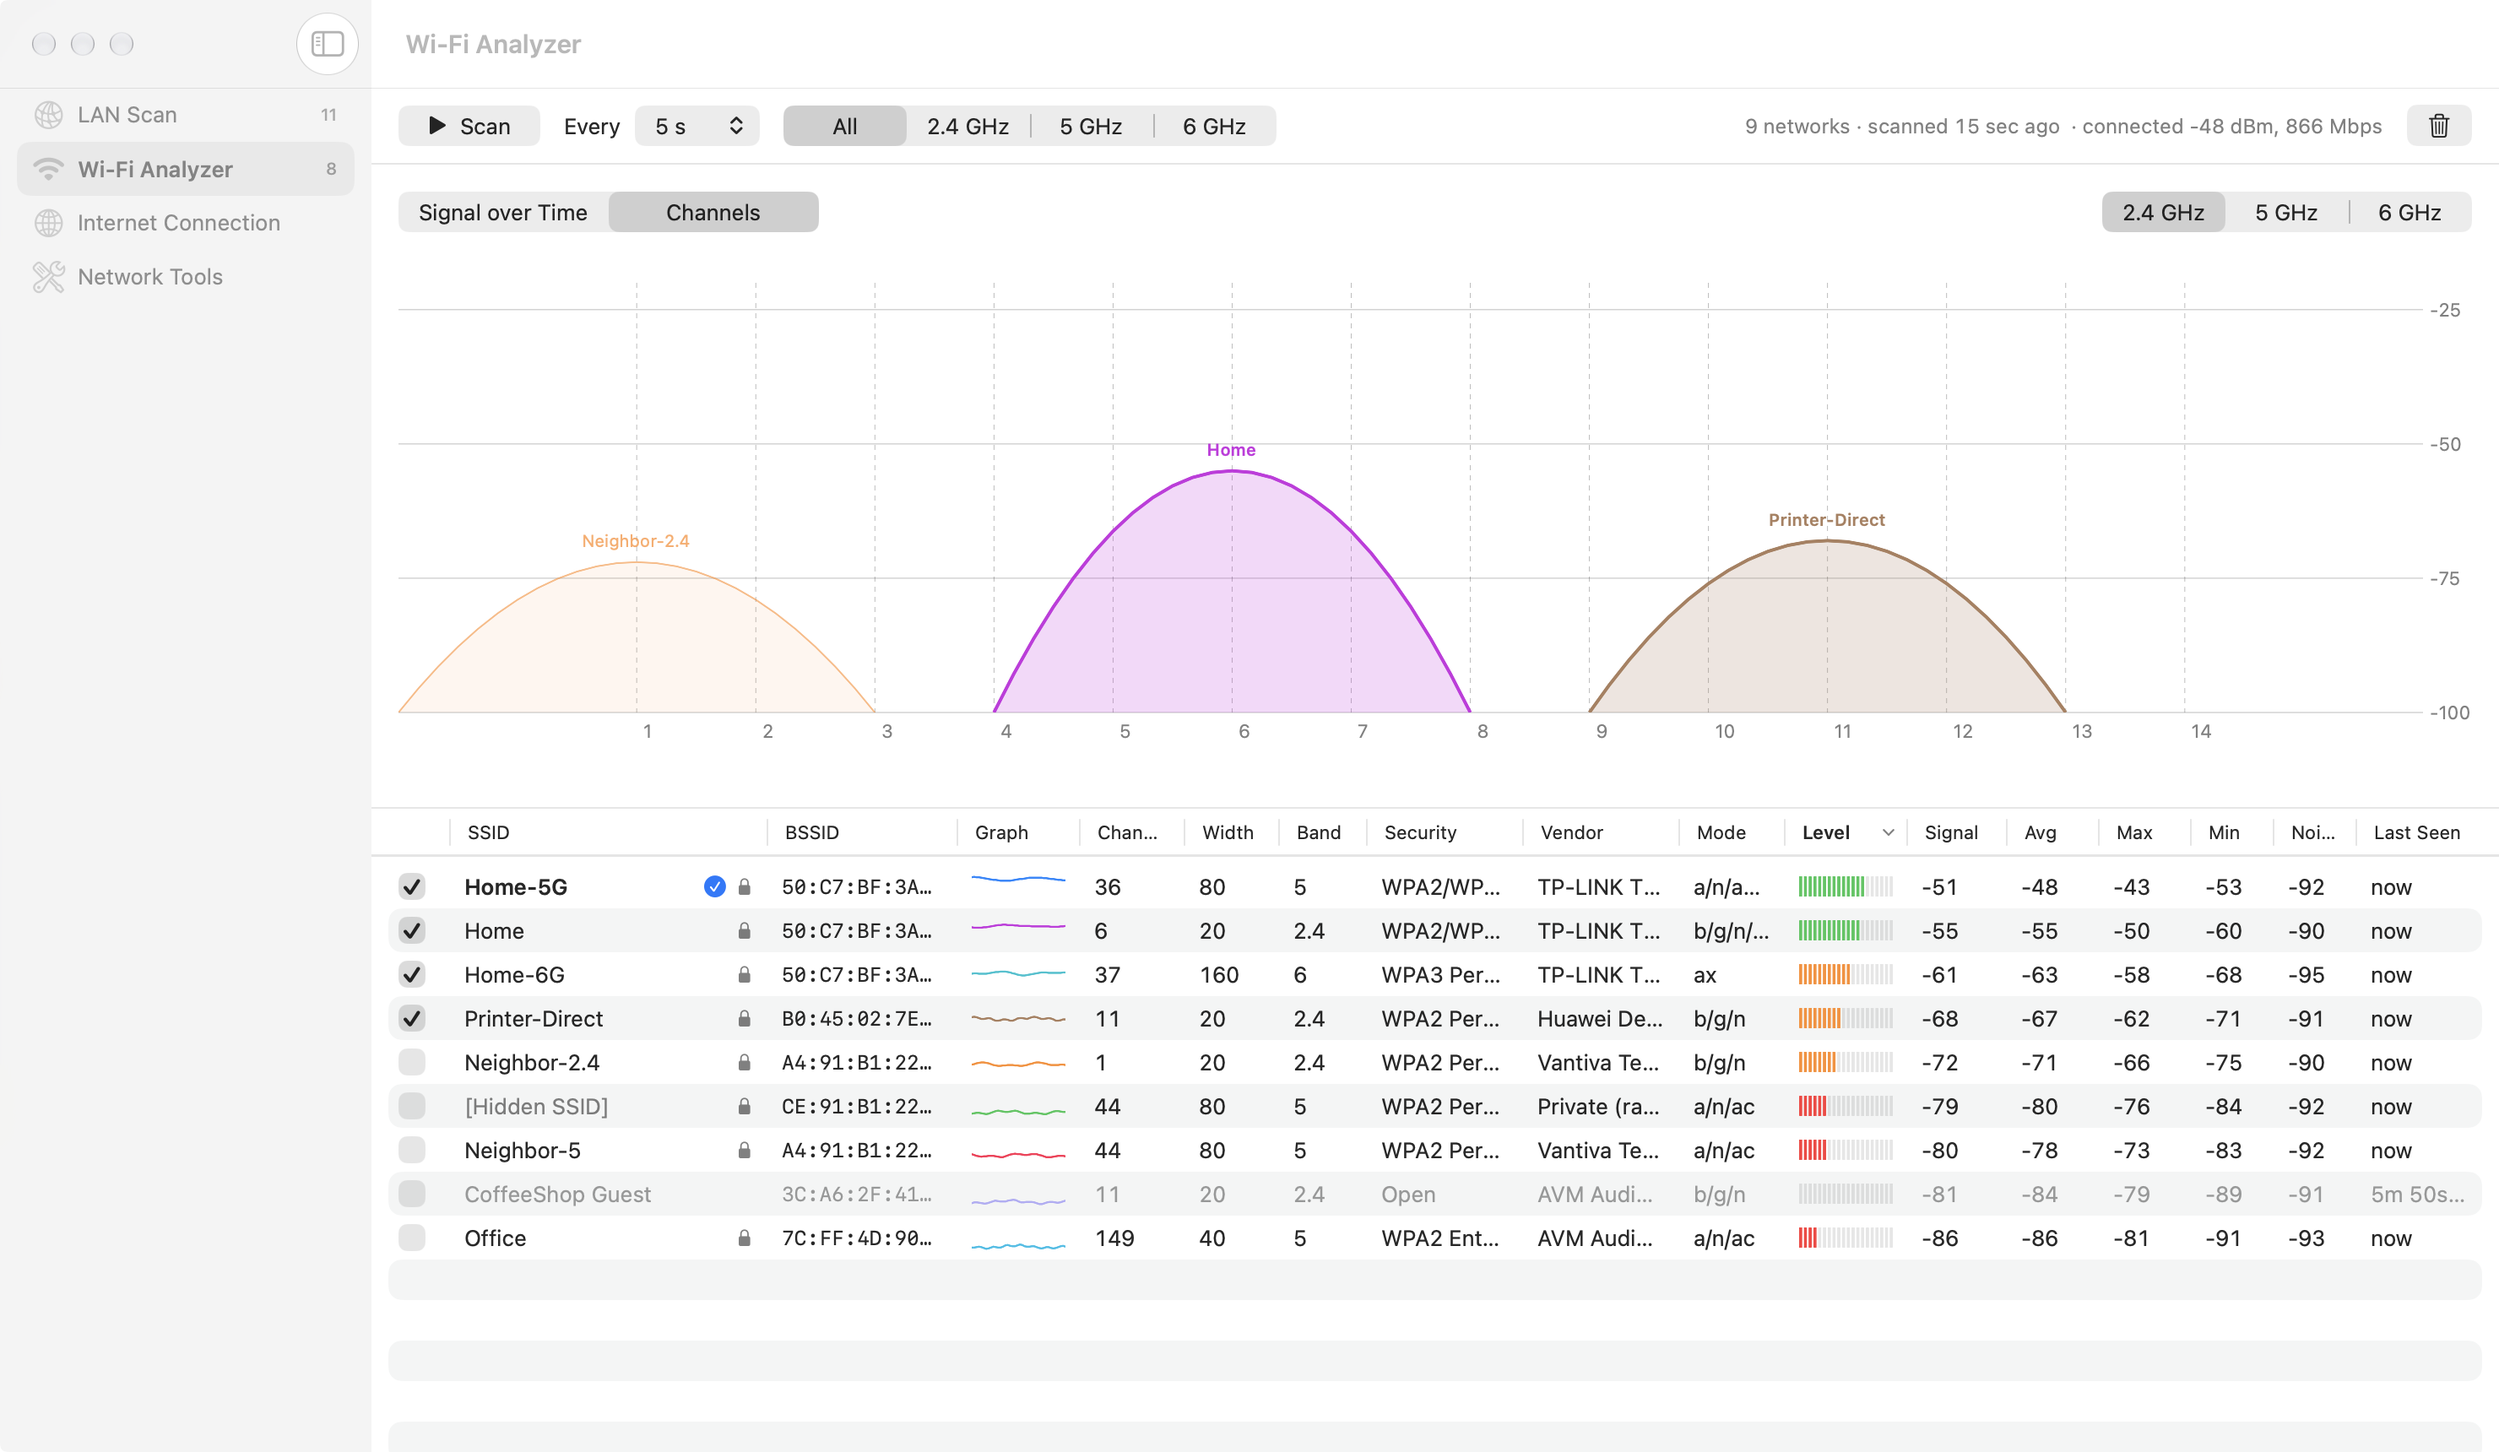
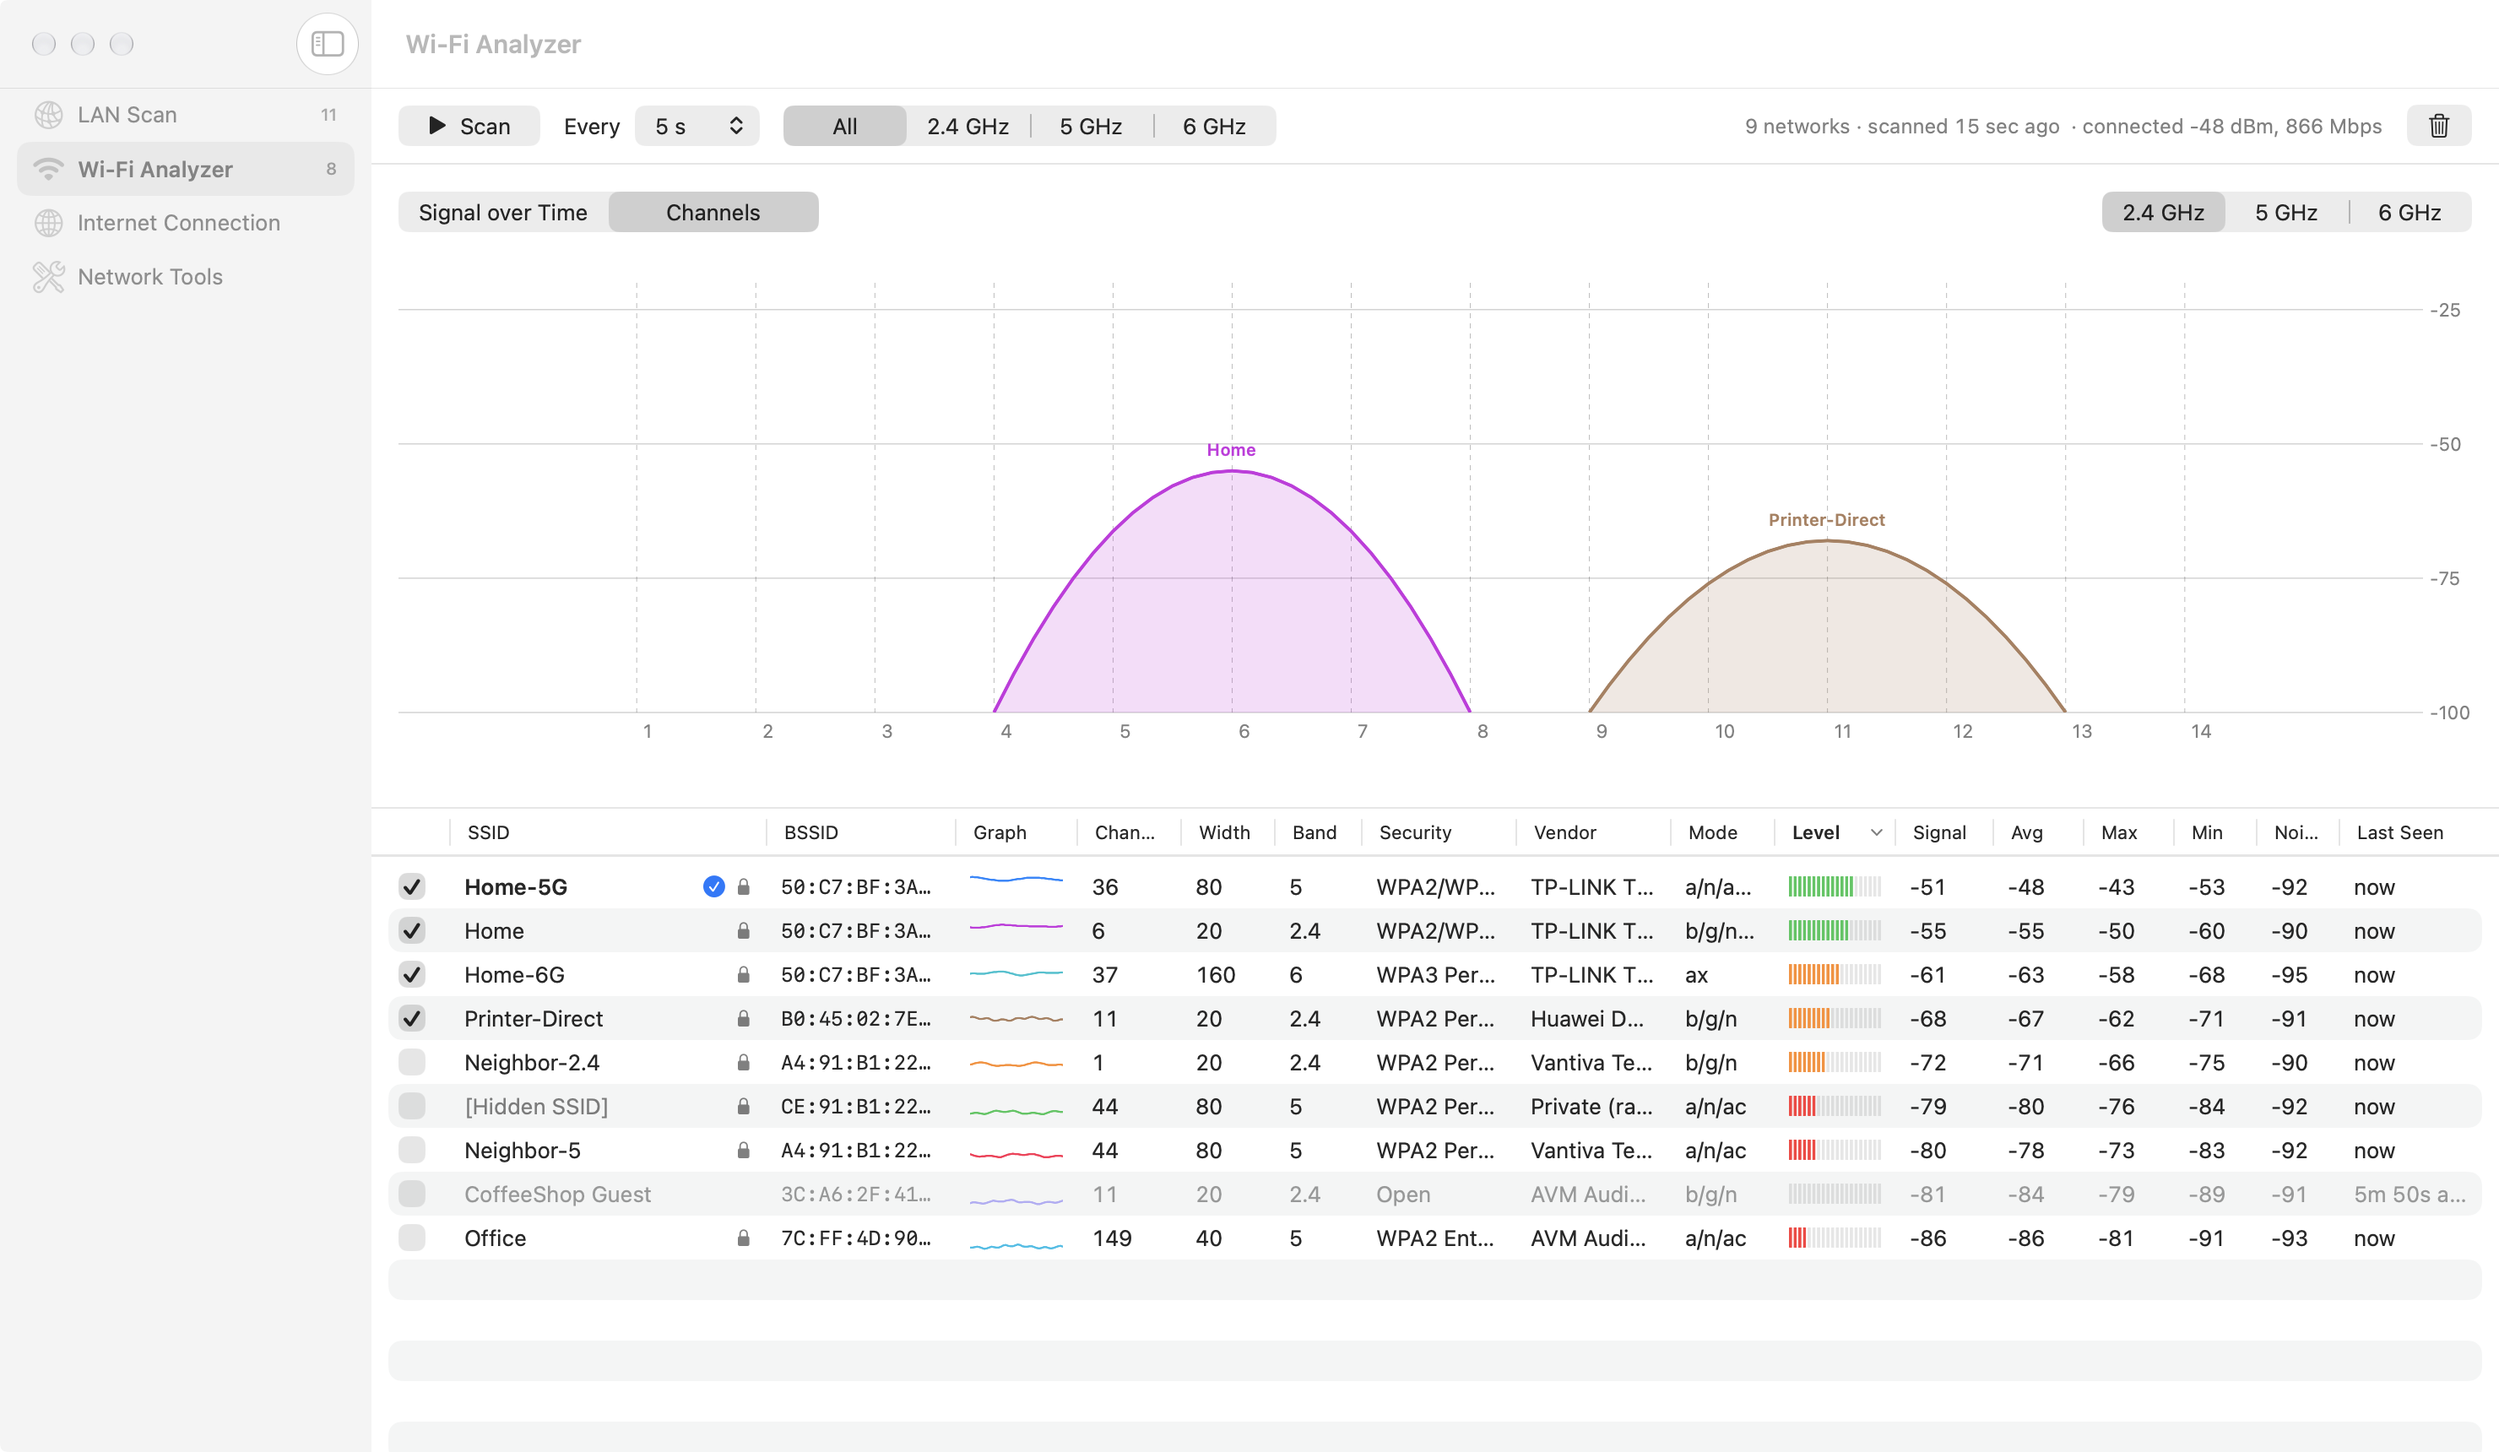
Wi-Fi Channels chart follows the table's checkboxes
Like Signal over Time, it now draws only the checked networks.

diff --git a/NetScanner/Features/WiFi/WiFiAnalyzerView.swift b/NetScanner/Features/WiFi/WiFiAnalyzerView.swift
@@ -328,8 +328,7 @@ private struct ChartPanel: View {
     }
 }
 
-/// Each network in range as an arch over the channels it occupies, as tall as its signal.
-/// Checked networks are drawn stronger.
+/// Each checked network in range as an arch over the channels it occupies, as tall as its signal.
 private struct ChannelChart: View {
     let model: WiFiAnalyzerModel
     let band: WiFiBand
@@ -370,28 +369,27 @@ private struct ChannelChart: View {
 
     var body: some View {
         let networks = model.networks
-            .filter { $0.latest.band == band && model.isInRange($0) }
+            .filter { $0.latest.band == band && model.isInRange($0) && model.checked.contains($0.id) }
             .sorted { $0.rssi < $1.rssi }  // strongest drawn last, on top
         Chart {
             ForEach(networks) { network in
                 let color = WiFiPalette.color(network.colorIndex)
-                let isChecked = model.checked.contains(network.id)
                 ForEach(arch(network)) { point in
                     AreaMark(x: .value("Channel", point.channel), yStart: .value("Floor", Self.floor),
                              yEnd: .value("Signal", point.rssi), series: .value("Network", network.id))
-                        .foregroundStyle(color.opacity(isChecked ? 0.2 : 0.08))
+                        .foregroundStyle(color.opacity(0.18))
                     LineMark(x: .value("Channel", point.channel), y: .value("Signal", point.rssi),
                              series: .value("Network", network.id))
-                        .foregroundStyle(color.opacity(isChecked ? 1 : 0.6))
-                        .lineStyle(StrokeStyle(lineWidth: isChecked ? 2 : 1))
+                        .foregroundStyle(color)
+                        .lineStyle(StrokeStyle(lineWidth: 2))
                 }
                 let (center, _) = WiFiChannelSpan.span(channel: network.channel, width: network.width, band: band)
                 PointMark(x: .value("Channel", center), y: .value("Signal", network.rssi))
                     .opacity(0)
                     .annotation(position: .top, spacing: 2) {
                         Text(verbatim: network.ssidText)
-                            .font(.caption.weight(isChecked ? .semibold : .regular))
-                            .foregroundStyle(color.opacity(isChecked ? 1 : 0.75))
+                            .font(.caption.weight(.semibold))
+                            .foregroundStyle(color)
                     }
             }
         }
@@ -409,7 +407,7 @@ private struct ChannelChart: View {
         .chartPlotStyle { $0.clipped() }
         .overlay {
             if networks.isEmpty, !model.networks.isEmpty {
-                Text("No networks in range on \(band.rawValue) GHz.")
+                Text("Check networks on \(band.rawValue) GHz in the table to chart them.")
                     .foregroundStyle(.secondary)
             }
         }

diff --git a/README.md b/README.md
@@ -73,7 +73,7 @@ The **Network Tools** section takes a destination, check the tools to run and pr
 ![The DNS Lookup tab: A, AAAA, MX, NS, TXT and SOA records of example.com](docs/screenshots/dns.png)
 
 ### Wi-Fi analyzer
-The **Wi-Fi Analyzer** section scans the nearby Wi-Fi networks every few seconds while it's shown. For each access point (BSSID): SSID, channel, channel width, band, security, vendor, supported 802.11 modes, a signal meter, current/average/max/min signal, noise and when it was last seen, plus a sparkline of its signal. The chart above the table has two tabs: **Signal over Time** plots the checked networks, and **Channels** draws every network in range as an arch over the channels it occupies (20–160 MHz, bonded blocks centered where they really are), as tall as its signal, so crowded channels stand out. Networks that stopped answering fade out. Filter by band (2.4, 5 or 6 GHz).
+The **Wi-Fi Analyzer** section scans the nearby Wi-Fi networks every few seconds while it's shown. For each access point (BSSID): SSID, channel, channel width, band, security, vendor, supported 802.11 modes, a signal meter, current/average/max/min signal, noise and when it was last seen, plus a sparkline of its signal. The chart above the table has two tabs: **Signal over Time** plots the checked networks, and **Channels** draws each checked network as an arch over the channels it occupies (20–160 MHz, bonded blocks centered where they really are), as tall as its signal, so crowded channels stand out. Networks that stopped answering fade out. Filter by band (2.4, 5 or 6 GHz).
 
 macOS only reveals network names and BSSIDs to apps with **Location** access, so the analyzer asks for it the first time. NetScanner doesn't read or store your location.
 
